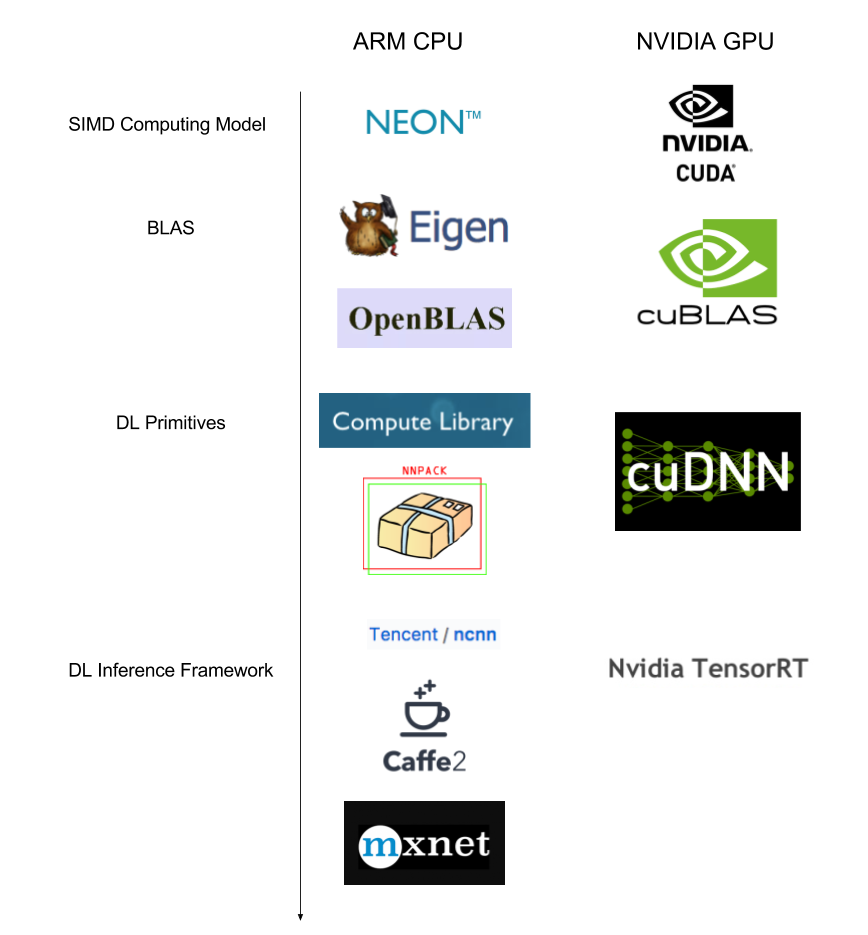
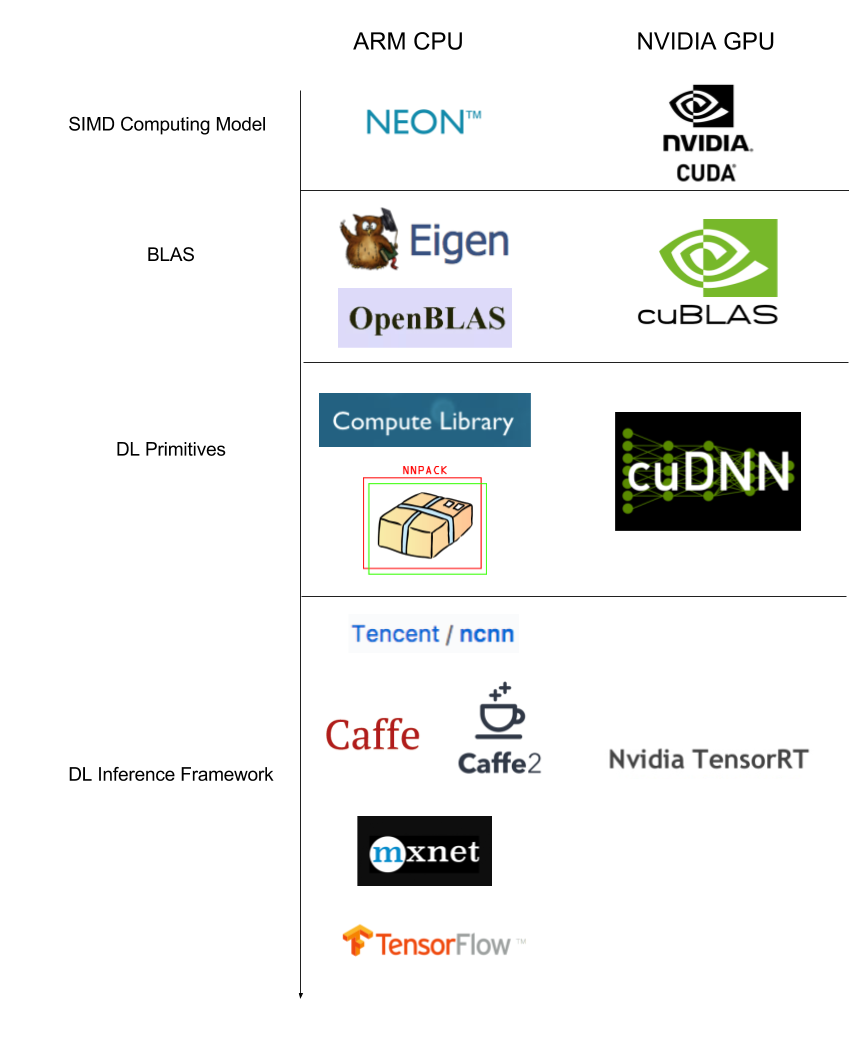
######

diff --git a/_layouts/post.html b/_layouts/post.html
@@ -13,6 +13,20 @@ layout: default
       {% if page.author %}
         • <span itemprop="author" itemscope itemtype="http://schema.org/Person"><span itemprop="name">{{ page.author }}</span></span>
       {% endif %}</p>
+      <style>
+        table{
+          border-collapse: collapse;
+          border-spacing: 0;
+          border:2px solid #ff0000;
+          align: center;
+        }
+        th{
+          border:2px solid #000000;
+        }
+        td{
+          border:1px solid #000000;
+        }     
+      </style>
   </header>
 
   <div class="post-content" itemprop="articleBody">

diff --git a/_posts/2017-08-29-deeplearning-inference-benchmark-survey.md b/_posts/2017-08-29-deeplearning-inference-benchmark-survey.md
@@ -343,7 +343,6 @@ int main(int argc, const char **argv)
 <br>
 &emsp;&emsp;__NNPACK__[[14]](https://github.com/Maratyszcza/NNPACK)——NNPACK 由 facebook 开发，是一个加速神经网络推断计算的加速包，NNPACK可以在多核 CPU 平台上提高卷积层计算性能。NNPACK采用的快速卷积算法基于 Fourier transform 算法和 Winograd transform 算法。下表是 NNPACK 在官网上展出的跟 caffe 的性能比较[[14]](https://github.com/Maratyszcza/NNPACK)，由表可以看出，在常见网络结构的卷积操作中，NNPACK 都有一个很大算力提升（Forward propagation performance on Intel Core i7 6700K vs BVLC Caffe master branch as of March 24, 2016）。NNPACK 对 Fast Fourier transform，Winograd transform，Matrix-matrix multiplication(GEMM)，Matrix-vector multiplication (GEMV)，Max-pooling 做了特别的优化。NNPACK 已经被许多深度学习框架用于底层加速，包括 facebook 自家的 Caffe2。
 
-```shell
 | Library        | Caffe              | NNPACK      | NNPACK        | NNPACK                   |
 | -------------- | ------------------ | ----------- | ------------- | ------------------------ |
 | **Algorithm**  | **im2col + sgemm** | **FFT-8x8** | **FFT-16x16** | **Winograd F(6x6, 3x3)** |
@@ -362,7 +361,7 @@ int main(int argc, const char **argv)
 | OverFeat:conv3 |  250 ms            |  69 ms      |  74 ms        | **54** ms                |
 | OverFeat:conv4 |  927 ms            | 256 ms      | 272 ms        | **173** ms               |
 | OverFeat:conv5 | 1832 ms            | 466 ms      | 524 ms        | **315** ms               |
-```
+
 &emsp;&emsp;NNPACK 主要支持下列的神经网络操作：
 
 - Convolutional layer

diff --git a/_posts/2017-08-24-convert-mobilenet-from-tensorflow-to-caffe2.md b/_posts/2017-08-24-convert-mobilenet-from-tensorflow-to-caffe2.md
@@ -403,7 +403,7 @@ print results
 
 |            | 三星 NOTE 3 | LG NEXUS 5 | 魅族 PRO 4 | Smartisan Nut |
 | ---------- | --------- | ---------- | -------- | ------------- |
-| Caffe2     | ---       | 70ms       | ---      | 150ms         |
+| Caffe2     | ---       | 70ms       | 110ms      | 150ms         |
 | TensorFlow | 150ms     | 160ms      | 250ms    |               |
 
 
